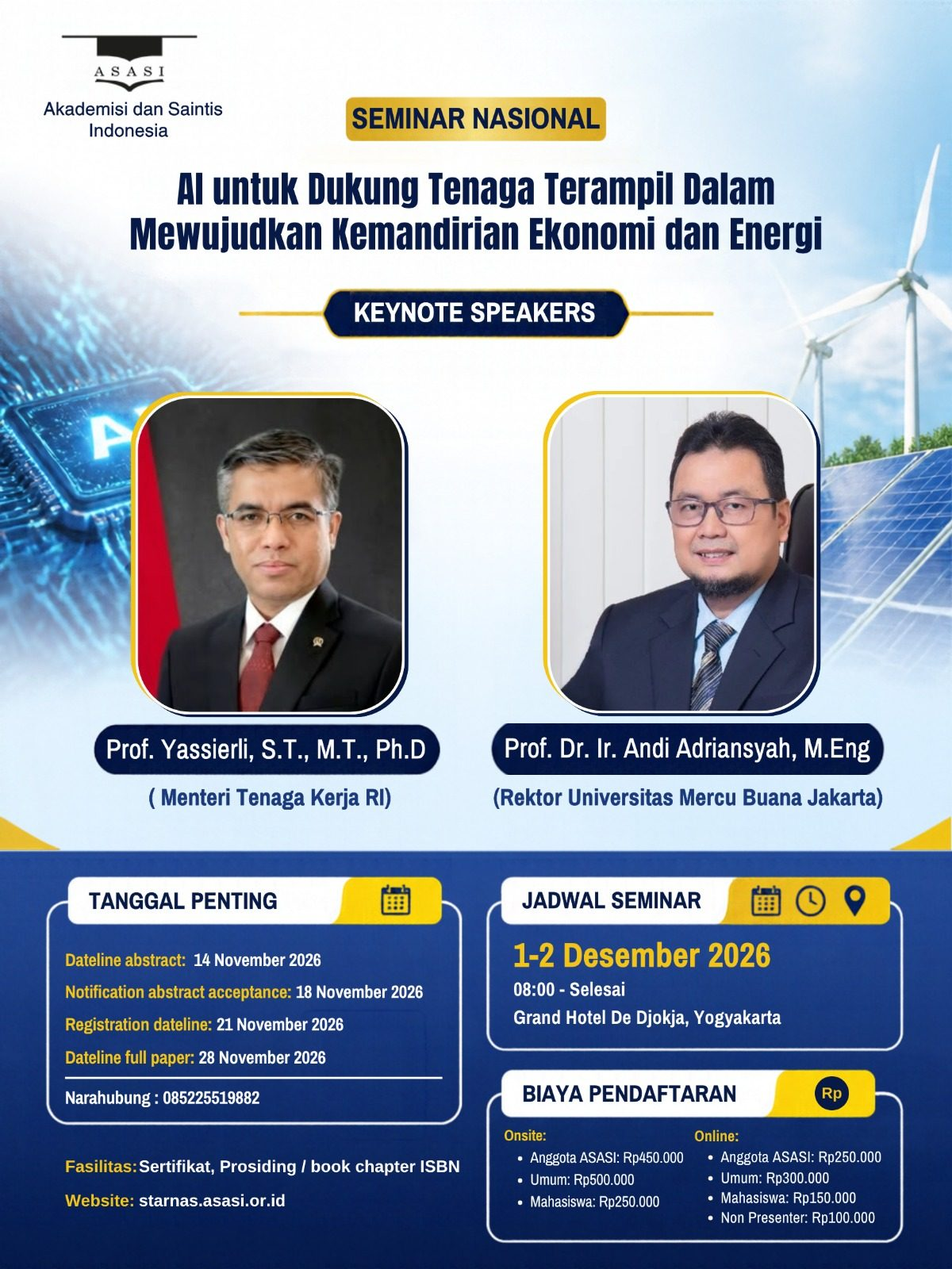
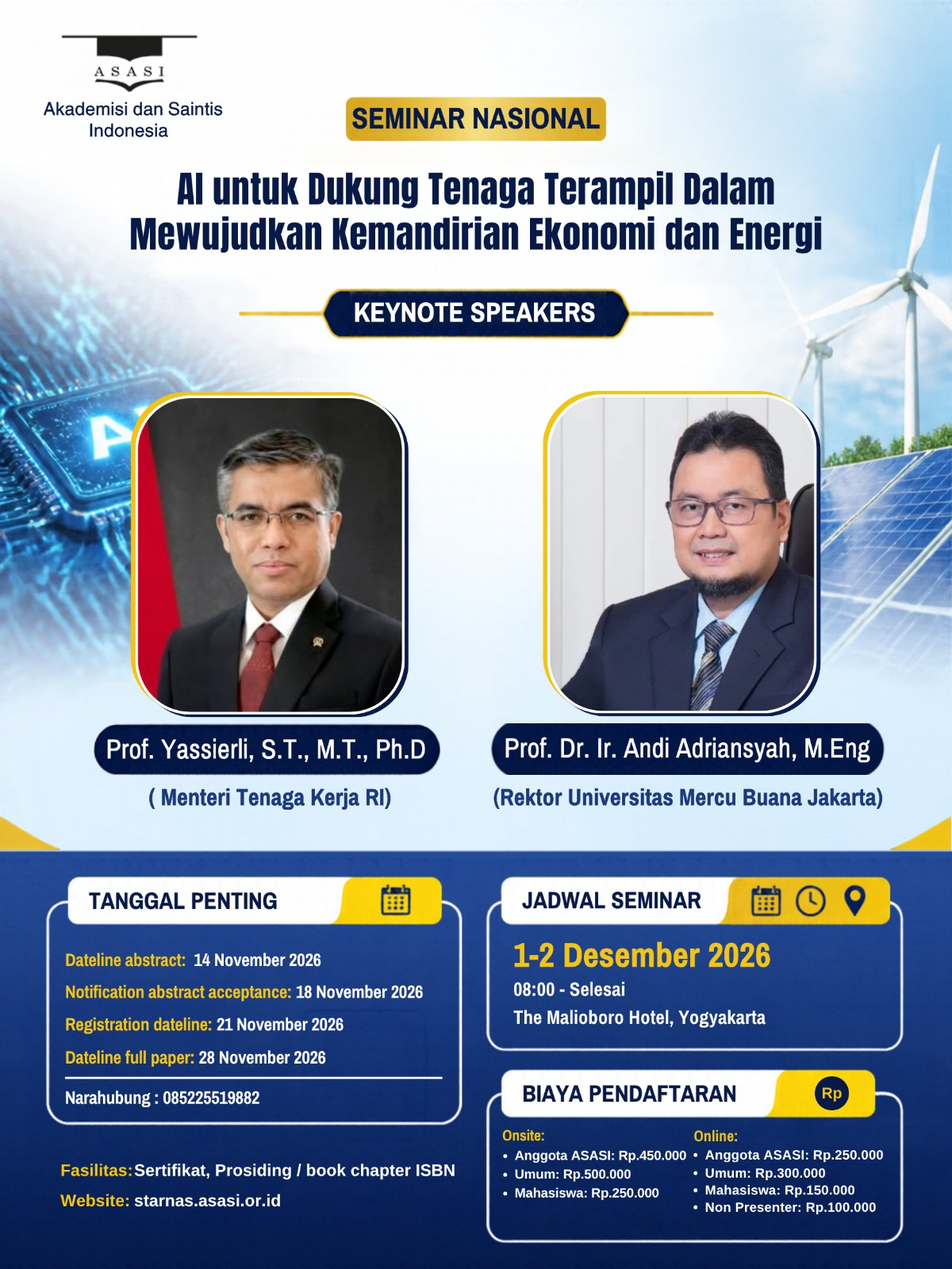
feat: update venue to The Malioboro Hotel and sync content with new poster
- Replace banner with the new official poster
- Change venue to The Malioboro Hotel across site, emails, and certificate
- Add event time (08:00 - selesai), unify contact number
- Compute remaining days to abstract deadline dynamically
- Fix abstract/full paper dates in writing guide (14 & 28 Nov)
- Remove old venue photo and unverified facility claims

diff --git a/resources/views/homepage.blade.php b/resources/views/homepage.blade.php
@@ -22,7 +22,7 @@
                     <div
                         class="inline-flex items-center px-3 py-1 md:px-4 md:py-2 glass-effect rounded-full text-xs md:text-sm mb-4 md:mb-6 animate-pulse">
                         <span class="w-2 h-2 bg-emerald-400 rounded-full mr-2 animate-ping"></span>
-                        <i class="fas fa-calendar-alt mr-2"></i>1-2 Desember 2026 • Grand Hotel De Djokja
+                        <i class="fas fa-calendar-alt mr-2"></i>1-2 Desember 2026 • 08:00 - selesai • The Malioboro Hotel
                     </div>
 
                     <h1 class="text-2xl md:text-4xl lg:text-5xl xl:text-6xl font-black mb-4 leading-tight">
@@ -86,7 +86,6 @@
                     <div class="relative w-full max-w-xl">
                         <div class="hero-slider">
                             <div class="slide active" style="background-image: url('/storage/starnas-stage.jpg')"></div>
-                            <div class="slide" style="background-image: url('/storage/venue-djokja.jpg')"></div>
                             <div class="slide" style="background-image: url('/storage/konferensi.png')"></div>
 
                             <button class="slider-arrow prev">
@@ -155,7 +154,7 @@
                 </div>
                 <p class="text-slate-400 max-w-2xl mx-auto text-xs md:text-sm">
                     Diselenggarakan oleh <strong>Akademisi dan Saintis Indonesia (ASASI)</strong> • 1–2 Desember 2026 di
-                    Grand Hotel De Djokja, Yogyakarta
+                    The Malioboro Hotel, Yogyakarta
                 </p>
             </div>
 
@@ -207,7 +206,7 @@
                                     class="fas fa-clock mr-1.5"></i> 08.00 WIB - Selesai</span>
                             <span class="text-slate-500">•</span>
                             <span class="inline-flex items-center text-emerald-300 font-semibold"><i
-                                    class="fas fa-map-marker-alt mr-1.5"></i> Grand Hotel De Djokja, Yogyakarta</span>
+                                    class="fas fa-map-marker-alt mr-1.5"></i> The Malioboro Hotel, Yogyakarta</span>
                         </div>
                     </div>
 
@@ -224,11 +223,16 @@
                             </span>
                         </div>
 
+                        @php
+                            $sisaHari = (int) now()->startOfDay()->diffInDays(\Carbon\Carbon::parse('2026-11-14')->startOfDay(), false);
+                            $teksSisa = $sisaHari > 1 ? "Tersisa {$sisaHari} hari lagi"
+                                : ($sisaHari === 1 ? 'Besok batas akhir' : ($sisaHari === 0 ? 'Hari ini batas akhir!' : 'Pengiriman abstrak telah ditutup'));
+                        @endphp
                         <div class="grid grid-cols-1 sm:grid-cols-2 gap-3 mb-4">
                             <div class="p-3.5 rounded-xl bg-amber-500/10 border border-amber-400/40 relative">
                                 <div class="text-[11px] font-bold text-amber-300 uppercase">Deadline Abstrak</div>
                                 <div class="text-lg font-black text-white">14 November 2026</div>
-                                <div class="text-[11px] text-amber-200/90 mt-0.5">Tersisa sekitar 3 minggu</div>
+                                <div class="text-[11px] text-amber-200/90 mt-0.5">{{ $teksSisa }}</div>
                             </div>
                             <div class="p-3.5 rounded-xl bg-white/5 border border-white/10">
                                 <div class="text-[11px] font-bold text-teal-300 uppercase">Notifikasi Penerimaan</div>
@@ -250,8 +254,7 @@
                         <!-- Himbauan Callout -->
                         <div
                             class="p-3.5 bg-amber-500/15 border-l-4 border-amber-400 rounded-r-xl text-xs text-amber-100 leading-relaxed">
-                            <strong>⏳ Catatan Panitia:</strong> Mengingat batas akhir pengiriman abstrak tinggal sekitar
-                            tiga minggu lagi (14 November 2026), kami mengimbau Bapak/Ibu untuk segera mengirimkan abstrak
+                            <strong>⏳ Catatan Panitia:</strong> Mengingat batas akhir pengiriman abstrak {{ $sisaHari > 0 ? "tinggal " . $sisaHari . " hari lagi" : "jatuh pada" }} (14 November 2026), kami mengimbau Bapak/Ibu untuk segera mengirimkan abstrak
                             dan melakukan pendaftaran agar tidak terlewat.
                         </div>
                     </div>
@@ -270,8 +273,7 @@
                                         <i class="fas fa-hotel"></i> Kategori Onsite
                                     </span>
                                     <span
-                                        class="text-[10px] bg-emerald-500/20 text-emerald-200 px-2 py-0.5 rounded font-semibold">Grand
-                                        Hotel De Djokja</span>
+                                        class="text-[10px] bg-emerald-500/20 text-emerald-200 px-2 py-0.5 rounded font-semibold">The Malioboro Hotel</span>
                                 </div>
                                 <ul class="space-y-2 text-xs">
                                     <li class="flex justify-between items-center text-slate-300">
@@ -1048,7 +1050,7 @@
                                     <h4 class="font-bold text-emerald-950 mb-2 text-sm md:text-base">Informasi Acara</h4>
                                     <p class="text-emerald-900 text-xs md:text-sm">
                                         Acara ini akan diselenggarakan pada <span class="font-semibold text-emerald-950">1-2 Desember 2026</span>
-                                        di <span class="font-semibold text-emerald-950">Grand Hotel De Djokja, Yogyakarta</span>. Jangan
+                                        di <span class="font-semibold text-emerald-950">The Malioboro Hotel, Yogyakarta</span>. Jangan
                                         lewatkan kesempatan emas untuk menjadi bagian dari kemandirian ekonomi dan energi bangsa bersama kecerdasan buatan (AI).
                                     </p>
                                 </div>
@@ -1165,7 +1167,7 @@
             <div class="text-center mb-12 md:mb-16" data-aos="fade-up">
                 <span class="inline-block px-3 py-1 bg-emerald-100 text-emerald-800 rounded-full text-xs font-bold uppercase tracking-wider mb-3">Registrasi & Investasi</span>
                 <h2 class="text-2xl md:text-4xl font-extrabold text-slate-900 section-title">BIAYA PENDAFTARAN SEMINAR NASIONAL ASASI 2026</h2>
-                <p class="text-slate-600 max-w-2xl mx-auto text-sm md:text-base mt-2">Informasi biaya pendaftaran resmi untuk kategori Onsite (Offline di Grand Hotel De Djokja) dan Online (Virtual Zoom Meeting).</p>
+                <p class="text-slate-600 max-w-2xl mx-auto text-sm md:text-base mt-2">Informasi biaya pendaftaran resmi untuk kategori Onsite (Offline di The Malioboro Hotel) dan Online (Virtual Zoom Meeting).</p>
             </div>
 
             <div class="max-w-6xl mx-auto">
@@ -1179,11 +1181,11 @@
                                     <i class="fas fa-hotel"></i> KATEGORI ONSITE (OFFLINE)
                                 </span>
                                 <span class="text-xs text-emerald-700 font-semibold bg-emerald-50 px-2.5 py-1 rounded-lg border border-emerald-200">
-                                    <i class="fas fa-map-marker-alt mr-1"></i> Grand Hotel De Djokja
+                                    <i class="fas fa-map-marker-alt mr-1"></i> The Malioboro Hotel
                                 </span>
                             </div>
                             <h3 class="text-xl md:text-2xl font-black text-slate-900 mb-1">Pemakalah Onsite</h3>
-                            <p class="text-xs md:text-sm text-slate-500 mb-6">Presentasi tatap muka langsung di Grand Hotel De Djokja, Yogyakarta (1-2 Desember 2026).</p>
+                            <p class="text-xs md:text-sm text-slate-500 mb-6">Presentasi tatap muka langsung di The Malioboro Hotel, Yogyakarta (1-2 Desember 2026).</p>
 
                             <!-- DAFTAR HARGA ONSITE -->
                             <div class="space-y-3 mb-6">
@@ -1505,26 +1507,26 @@
             <div class="text-center mb-12 md:mb-16" data-aos="fade-up">
                 <span class="inline-block px-3 py-1 bg-emerald-100 text-emerald-800 rounded-full text-xs font-bold uppercase tracking-wider mb-3">Venue Penyelenggaraan</span>
                 <h2 class="text-2xl md:text-4xl font-extrabold text-slate-900 section-title">LOKASI ACARA</h2>
-                <p class="text-slate-600 max-w-2xl mx-auto text-sm md:text-base mt-2">STARNAS ASASI 2026 & ICoABCD 2026 akan diselenggarakan di Grand Hotel De Djokja, Yogyakarta.</p>
+                <p class="text-slate-600 max-w-2xl mx-auto text-sm md:text-base mt-2">STARNAS ASASI 2026 & ICoABCD 2026 akan diselenggarakan di The Malioboro Hotel, Yogyakarta.</p>
             </div>
 
             <div class="flex flex-col lg:flex-row items-center max-w-6xl mx-auto">
                 <div class="lg:w-1/2 mb-8 md:mb-10 lg:mb-0 w-full" data-aos="fade-right">
                     <div class="rounded-3xl overflow-hidden shadow-2xl border-2 border-emerald-500/30 relative group h-full min-h-[360px] md:min-h-[420px] flex items-end">
-                        <img src="{{ asset('storage/venue-djokja.jpg') }}" loading="lazy" decoding="async" alt="Grand Hotel De Djokja Yogyakarta" class="absolute inset-0 w-full h-full object-cover group-hover:scale-105 transition-transform duration-700">
+                        <div class="absolute inset-0 bg-gradient-to-br from-emerald-900 via-teal-900 to-slate-950 flex items-center justify-center"><i class="fas fa-hotel text-white/10 text-[10rem]"></i></div>
                         <div class="absolute inset-0 bg-gradient-to-t from-slate-950 via-slate-950/50 to-transparent"></div>
                         <div class="relative z-10 p-6 md:p-8 text-white w-full">
                             <div class="inline-flex items-center px-3 py-1 bg-emerald-600 text-white text-xs font-bold rounded-lg mb-2 shadow-md">
-                                <i class="fas fa-hotel mr-1.5"></i> Grand Hotel De Djokja
+                                <i class="fas fa-hotel mr-1.5"></i> The Malioboro Hotel
                             </div>
-                            <h3 class="text-2xl font-black mb-1 text-white">Grand Hotel De Djokja</h3>
+                            <h3 class="text-2xl font-black mb-1 text-white">The Malioboro Hotel</h3>
                             <p class="text-emerald-200 text-xs md:text-sm">Venue Resmi STARNAS ASASI & ICoABCD 2026 • Kota Yogyakarta</p>
                         </div>
                     </div>
                 </div>
                 <div class="lg:w-1/2 lg:pl-8 md:lg:pl-12" data-aos="fade-left" data-aos-delay="300">
-                    <h3 class="text-xl md:text-2xl font-bold text-slate-900 mb-4 md:mb-6">Grand Hotel De Djokja Yogyakarta</h3>
-                    <p class="text-slate-600 mb-4 md:mb-6 text-sm md:text-base leading-relaxed">Sebagai venue representatif di Yogyakarta, Grand Hotel De Djokja menyediakan fasilitas lengkap, ballroom representatif, dan akses strategis untuk mendukung kesuksesan STARNAS ASASI 2026 & ICoABCD 2026.</p>
+                    <h3 class="text-xl md:text-2xl font-bold text-slate-900 mb-4 md:mb-6">The Malioboro Hotel Yogyakarta</h3>
+                    <p class="text-slate-600 mb-4 md:mb-6 text-sm md:text-base leading-relaxed">STARNAS ASASI 2026 diselenggarakan secara tatap muka (onsite) di The Malioboro Hotel, Yogyakarta, dan juga tersedia kategori peserta online (virtual Zoom).</p>
 
                     <div class="space-y-3 md:space-y-4 mb-6 md:mb-8">
                         <div class="flex items-center p-3 rounded-xl bg-slate-50 border border-slate-100">
@@ -1533,7 +1535,7 @@
                                 <i class="fas fa-map-marker-alt text-base"></i>
                             </div>
                             <div>
-                                <p class="text-slate-800 text-sm md:text-base font-medium">Grand Hotel De Djokja, Kota Yogyakarta, D.I. Yogyakarta</p>
+                                <p class="text-slate-800 text-sm md:text-base font-medium">The Malioboro Hotel, Yogyakarta</p>
                             </div>
                         </div>
 
@@ -1543,7 +1545,7 @@
                                 <i class="fas fa-hotel text-base"></i>
                             </div>
                             <div>
-                                <p class="text-slate-800 text-sm md:text-base">Convention hall & ballroom modern berkapasitas besar</p>
+                                <p class="text-slate-800 text-sm md:text-base">Waktu: 08:00 WIB - selesai (1-2 Desember 2026)</p>
                             </div>
                         </div>
 
@@ -1553,7 +1555,7 @@
                                 <i class="fas fa-wifi text-base"></i>
                             </div>
                             <div>
-                                <p class="text-slate-800 text-sm md:text-base">Konektivitas internet dedicated & hybrid conference system</p>
+                                <p class="text-slate-800 text-sm md:text-base">Tersedia kategori Onsite (tatap muka) dan Online (virtual Zoom)</p>
                             </div>
                         </div>
 
@@ -1568,7 +1570,7 @@
                         </div>
                     </div>
 
-                    <a href="https://maps.google.com/?q=Grand+Hotel+De+Djokja" target="_blank"
+                    <a href="https://maps.google.com/?q=The+Malioboro+Hotel+Yogyakarta" target="_blank"
                         class="inline-flex items-center bg-gradient-to-r from-emerald-600 via-teal-600 to-emerald-700 hover:from-emerald-500 hover:to-teal-500 text-white font-bold py-3 px-6 rounded-xl transition-all duration-300 hover-lift text-sm md:text-base shadow-lg shadow-emerald-600/25">
                         <i class="fas fa-map-marked-alt mr-2"></i>
                         <span>Buka Petunjuk Arah Google Maps</span>

diff --git a/resources/views/peserta/rundown_starnas.blade.php b/resources/views/peserta/rundown_starnas.blade.php
@@ -23,7 +23,7 @@
                     </div>
                     <div class="flex items-center gap-2 bg-emerald-950/40 px-4 py-2 rounded-xl border border-emerald-500/30 backdrop-blur-sm">
                         <i class="fas fa-map-marker-alt text-amber-400"></i>
-                        <span class="font-semibold">Grand Hotel De Djokja, Yogyakarta</span>
+                        <span class="font-semibold">The Malioboro Hotel, Yogyakarta</span>
                     </div>
                 </div>
             </div>
@@ -99,7 +99,7 @@
                         <div>
                             <h2 class="text-xl md:text-2xl font-black text-slate-900">HARI PERTAMA</h2>
                             <p class="text-xs md:text-sm font-semibold text-emerald-700 flex items-center gap-2">
-                                <i class="fas fa-calendar-alt"></i> Selasa, 1 Desember 2026 • Grand Hotel De Djokja
+                                <i class="fas fa-calendar-alt"></i> Selasa, 1 Desember 2026 • The Malioboro Hotel
                             </p>
                         </div>
                     </div>
@@ -313,7 +313,7 @@
                         <div>
                             <h2 class="text-xl md:text-2xl font-black text-slate-900">HARI KEDUA</h2>
                             <p class="text-xs md:text-sm font-semibold text-amber-700 flex items-center gap-2">
-                                <i class="fas fa-calendar-alt"></i> Rabu, 2 Desember 2026 • Grand Hotel De Djokja
+                                <i class="fas fa-calendar-alt"></i> Rabu, 2 Desember 2026 • The Malioboro Hotel
                             </p>
                         </div>
                     </div>
@@ -549,7 +549,7 @@
                                 </li>
                                 <li class="flex items-start gap-2">
                                     <i class="fas fa-map-marker-alt text-amber-600 mt-1 flex-shrink-0"></i>
-                                    <span>Venue penyelenggaraan berada di <strong>Grand Hotel De Djokja, Yogyakarta</strong>. WiFi & fasilitas multimedia representatif telah disiapkan panitia.</span>
+                                    <span>Venue penyelenggaraan berada di <strong>The Malioboro Hotel, Yogyakarta</strong>. WiFi & fasilitas multimedia representatif telah disiapkan panitia.</span>
                                 </li>
                             </ul>
                         </div>

diff --git a/resources/views/peserta/starnas-page.blade.php b/resources/views/peserta/starnas-page.blade.php
@@ -23,7 +23,7 @@
                     </div>
                     <div class="flex items-center gap-2 bg-emerald-950/40 px-4 py-2 rounded-xl border border-emerald-500/30 backdrop-blur-sm">
                         <i class="fas fa-map-marker-alt text-amber-400"></i>
-                        <span class="font-semibold">Grand Hotel De Djokja, Yogyakarta</span>
+                        <span class="font-semibold">The Malioboro Hotel, Yogyakarta</span>
                     </div>
                 </div>
             </div>
@@ -99,7 +99,7 @@
                         <div>
                             <h2 class="text-xl md:text-2xl font-black text-slate-900">HARI PERTAMA</h2>
                             <p class="text-xs md:text-sm font-semibold text-emerald-700 flex items-center gap-2">
-                                <i class="fas fa-calendar-alt"></i> Selasa, 1 Desember 2026 • Grand Hotel De Djokja
+                                <i class="fas fa-calendar-alt"></i> Selasa, 1 Desember 2026 • The Malioboro Hotel
                             </p>
                         </div>
                     </div>
@@ -313,7 +313,7 @@
                         <div>
                             <h2 class="text-xl md:text-2xl font-black text-slate-900">HARI KEDUA</h2>
                             <p class="text-xs md:text-sm font-semibold text-amber-700 flex items-center gap-2">
-                                <i class="fas fa-calendar-alt"></i> Rabu, 2 Desember 2026 • Grand Hotel De Djokja
+                                <i class="fas fa-calendar-alt"></i> Rabu, 2 Desember 2026 • The Malioboro Hotel
                             </p>
                         </div>
                     </div>
@@ -549,7 +549,7 @@
                                 </li>
                                 <li class="flex items-start gap-2">
                                     <i class="fas fa-map-marker-alt text-amber-600 mt-1 flex-shrink-0"></i>
-                                    <span>Venue penyelenggaraan berada di <strong>Grand Hotel De Djokja, Yogyakarta</strong>. WiFi & fasilitas multimedia representatif telah disiapkan panitia.</span>
+                                    <span>Venue penyelenggaraan berada di <strong>The Malioboro Hotel, Yogyakarta</strong>. WiFi & fasilitas multimedia representatif telah disiapkan panitia.</span>
                                 </li>
                             </ul>
                         </div>

diff --git a/resources/views/peserta/rundown_rakornas.blade.php b/resources/views/peserta/rundown_rakornas.blade.php
@@ -23,7 +23,7 @@
                     </div>
                     <div class="flex items-center gap-2 bg-emerald-950/40 px-4 py-2 rounded-xl border border-emerald-500/30 backdrop-blur-sm">
                         <i class="fas fa-map-marker-alt text-amber-400"></i>
-                        <span class="font-semibold">Grand Hotel De Djokja, Yogyakarta</span>
+                        <span class="font-semibold">The Malioboro Hotel, Yogyakarta</span>
                     </div>
                     <div class="flex items-center gap-2 bg-emerald-950/40 px-4 py-2 rounded-xl border border-emerald-500/30 backdrop-blur-sm">
                         <i class="fas fa-user-shield text-amber-400"></i>
@@ -60,7 +60,7 @@
                         </div>
                         <div>
                             <h2 class="text-xl md:text-2xl font-black text-slate-900">HARI PERTAMA: SIDANG PLENO I</h2>
-                            <p class="text-xs md:text-sm font-semibold text-emerald-700">Selasa, 1 Desember 2026 • Grand Hotel De Djokja</p>
+                            <p class="text-xs md:text-sm font-semibold text-emerald-700">Selasa, 1 Desember 2026 • The Malioboro Hotel</p>
                         </div>
                     </div>
 
@@ -122,7 +122,7 @@
                         </div>
                         <div>
                             <h2 class="text-xl md:text-2xl font-black text-slate-900">HARI KEDUA: SIDANG KOMISI & PENETAPAN HASIL</h2>
-                            <p class="text-xs md:text-sm font-semibold text-amber-700">Rabu, 2 Desember 2026 • Grand Hotel De Djokja</p>
+                            <p class="text-xs md:text-sm font-semibold text-amber-700">Rabu, 2 Desember 2026 • The Malioboro Hotel</p>
                         </div>
                     </div>
 

diff --git a/resources/views/peserta/panduan-penulisan.blade.php b/resources/views/peserta/panduan-penulisan.blade.php
@@ -240,12 +240,12 @@
                                                     <div class="bg-teal-50/80 p-3 rounded-lg border border-teal-100">
                                                         <p class="text-teal-800 font-semibold">Batas Akhir Pengiriman
                                                             Abstrak</p>
-                                                        <p class="text-teal-950 text-lg font-bold">15 November 2026</p>
+                                                        <p class="text-teal-950 text-lg font-bold">14 November 2026</p>
                                                     </div>
                                                     <div class="bg-teal-50/80 p-3 rounded-lg border border-teal-100">
                                                         <p class="text-teal-800 font-semibold">Batas Akhir Pengiriman
                                                             Makalah</p>
-                                                        <p class="text-teal-950 text-lg font-bold">24 November 2026</p>
+                                                        <p class="text-teal-950 text-lg font-bold">28 November 2026</p>
                                                     </div>
                                                 </div>
                                             </div>

diff --git a/resources/views/auth/login.blade.php b/resources/views/auth/login.blade.php
@@ -227,7 +227,7 @@
                 <div class="relative z-10 text-center mt-4 md:mt-0">
                     <div class="flex items-center justify-center text-emerald-200 text-xs bg-emerald-950/40 border border-emerald-500/30 rounded-xl p-2.5 backdrop-blur-sm">
                         <i class="fas fa-map-marker-alt mr-2 text-emerald-400"></i>
-                        <span>Grand Hotel De Djokja, Yogyakarta</span>
+                        <span>The Malioboro Hotel, Yogyakarta</span>
                     </div>
                 </div>
             </div>
@@ -289,7 +289,7 @@
                             <i class="fas fa-info-circle mr-1 text-emerald-600"></i>
                             Jika lupa password atau butuh bantuan, hubungi admin
                         </p>
-                        <a href="https://wa.me/628122718132" target="_blank"
+                        <a href="https://wa.me/6285225519882" target="_blank"
                             class="inline-flex items-center justify-center py-1.5 px-3 rounded-lg btn-whatsapp font-medium text-xs">
                             <i class="fab fa-whatsapp mr-1 text-sm"></i>
                             Hubungi via WhatsApp

diff --git a/resources/views/emails/notifikasi.blade.php b/resources/views/emails/notifikasi.blade.php
@@ -23,7 +23,7 @@
                     @if($tombolUrl)
                         <p style="margin:24px 0;"><a href="{{ $tombolUrl }}" style="background:#059669;color:#ffffff;text-decoration:none;padding:12px 22px;border-radius:8px;font-weight:bold;display:inline-block;">{{ $tombolTeks }}</a></p>
                     @endif
-                    <p style="margin:24px 0 0;font-size:13px;color:#6b7280;">1-2 Desember 2026 &bull; Grand Hotel De Djokja, Yogyakarta</p>
+                    <p style="margin:24px 0 0;font-size:13px;color:#6b7280;">1-2 Desember 2026 &bull; The Malioboro Hotel, Yogyakarta</p>
                 </td></tr>
                 <tr><td style="padding:16px 28px;background:#f9fafb;font-size:12px;color:#9ca3af;">
                     Email ini dikirim otomatis, mohon tidak membalas langsung.

diff --git a/resources/views/peserta/riwayat.blade.php b/resources/views/peserta/riwayat.blade.php
@@ -249,7 +249,7 @@
                             Jika Anda memiliki pertanyaan tentang status verifikasi atau mengalami kendala teknis,
                             jangan ragu untuk menghubungi tim support kami.
                         </p>
-                        <a href="https://wa.me/628122718132" target="_blank"
+                        <a href="https://wa.me/6285225519882" target="_blank"
                             class="inline-flex items-center px-4 py-2 bg-green-500 hover:bg-green-600 text-white font-medium rounded-lg transition-colors duration-200">
                             <i class="fab fa-whatsapp mr-2"></i>
                             Chat WhatsApp

diff --git a/resources/views/peserta/pembayaran_cara.blade.php b/resources/views/peserta/pembayaran_cara.blade.php
@@ -38,7 +38,7 @@
                 <div class="bg-gradient-to-br from-gray-50 to-white rounded-xl border border-primary/20 p-4 md:p-6">
                     <div class="text-center mb-6">
                         <h4 class="text-xl font-bold text-primary mb-2">Pemakalah (Onsite)</h4>
-                        <p class="text-sm text-gray-500">Presentasi langsung di Grand Hotel De Djokja, Yogyakarta</p>
+                        <p class="text-sm text-gray-500">Presentasi langsung di The Malioboro Hotel, Yogyakarta</p>
                         <div class="w-16 h-1 bg-primary rounded-full mx-auto mt-2"></div>
                     </div>
                     

diff --git a/resources/views/peserta/beranda.blade.php b/resources/views/peserta/beranda.blade.php
@@ -83,7 +83,7 @@
                             <i class="fas fa-map-marker-alt text-secondary mr-3"></i>
                             <div>
                                 <p class="text-sm font-semibold text-gray-700">Lokasi</p>
-                                <p class="text-xs text-gray-600 font-bold">Grand Hotel De Djokja, Yogyakarta</p>
+                                <p class="text-xs text-gray-600 font-bold">The Malioboro Hotel, Yogyakarta</p>
                             </div>
                         </div>
                     </div>

diff --git a/app/Http/Controllers/PesertaController.php b/app/Http/Controllers/PesertaController.php
@@ -350,7 +350,7 @@ class PesertaController extends Controller
             'peran_peserta' => $peran_peserta,
             'nomor_unik' => $nomor_sertifikat_unik,
             'tanggal_acara' => '1 - 2 Desember 2026',
-            'tempat_acara' => 'Grand Hotel De Djokja, Yogyakarta',
+            'tempat_acara' => 'The Malioboro Hotel, Yogyakarta',
             'tema' => 'AI untuk Dukung Tenaga Terampil Dalam Mewujudkan Kemandirian Ekonomi dan Energi',
         ];
 

diff --git a/resources/views/emails/notifikasi-text.blade.php b/resources/views/emails/notifikasi-text.blade.php
@@ -17,6 +17,6 @@ Catatan: {{ $catatan }}
 {{ $tombolTeks }}: {{ $tombolUrl }}
 
 @endif
-1-2 Desember 2026 • Grand Hotel De Djokja, Yogyakarta
+1-2 Desember 2026 • The Malioboro Hotel, Yogyakarta
 
 Email ini dikirim otomatis, mohon tidak membalas langsung.
